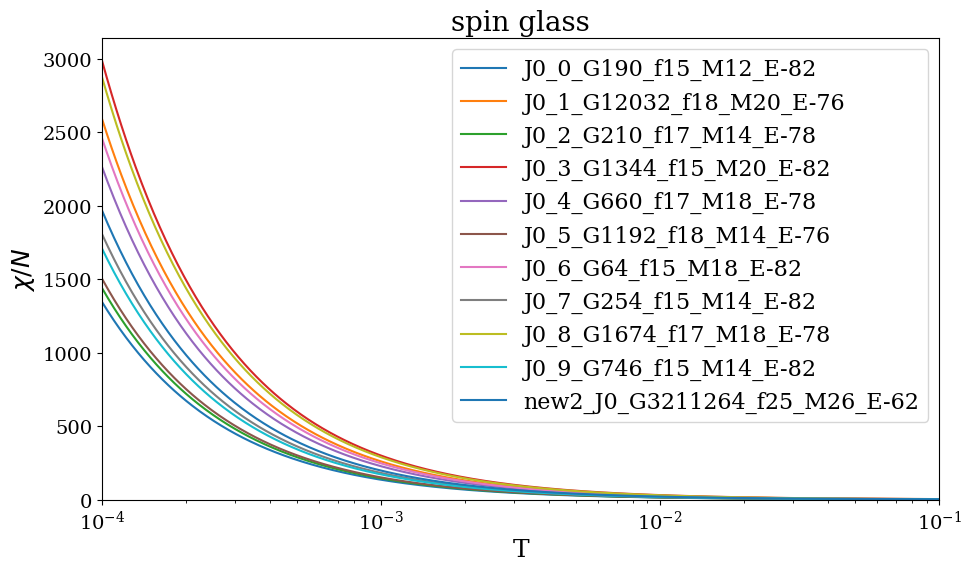
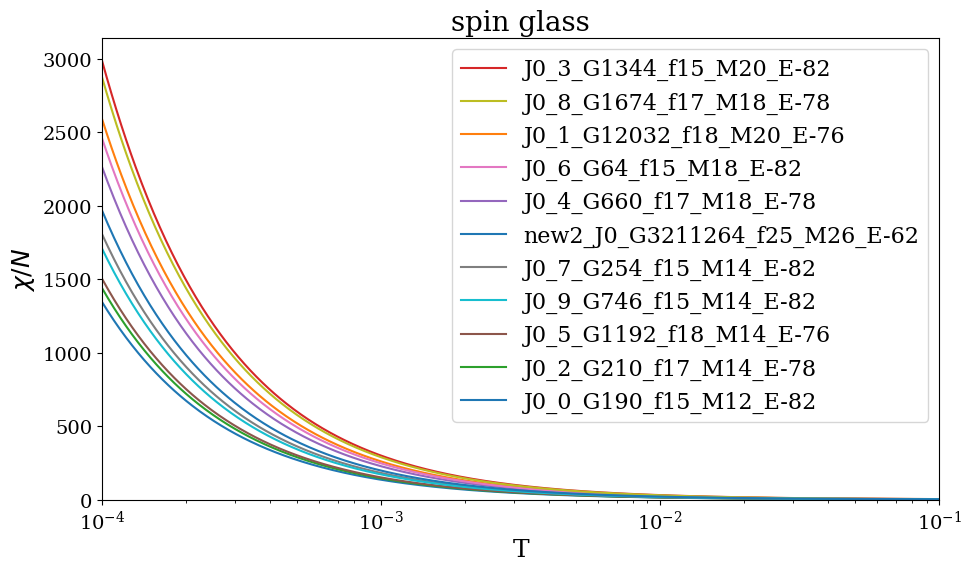
commit

diff --git a/main_rus.tex b/main_rus.tex
@@ -297,14 +297,14 @@
 
 \begin{figure}[H]
 	\centering
-	\includegraphics[width=0.6\textwidth]{figs/spin_glass}
+	\includegraphics[width=1\textwidth]{figs/spin_glass}
 	\caption{spin glass}
 	\label{fig:spin_glass}
 \end{figure}
 
 \begin{figure}[H]
 	\centering
-	\includegraphics[width=0.6\textwidth]{figs/ferro1}
+	\includegraphics[width=1\textwidth]{figs/ferro1}
 	\caption{ferro1}
 	\label{fig:ferro1}
 \end{figure}
@@ -318,7 +318,7 @@
 
 \begin{figure}[H]
 	\centering
-	\includegraphics[width=0.6\textwidth]{figs/ferro3}
+	\includegraphics[width=1\textwidth]{figs/ferro3}
 	\caption{ferro3}
 	\label{fig:ferro3}
 \end{figure}